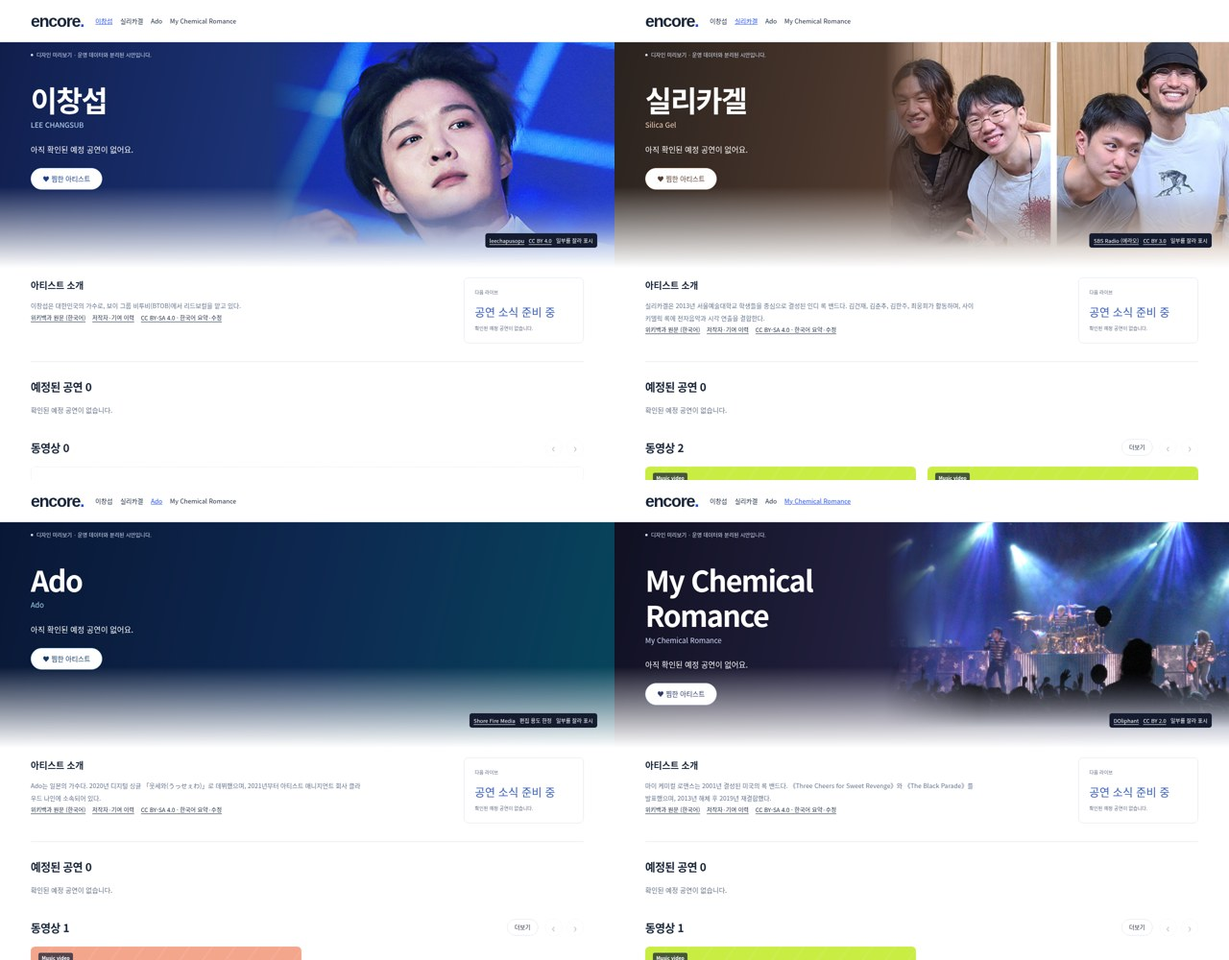
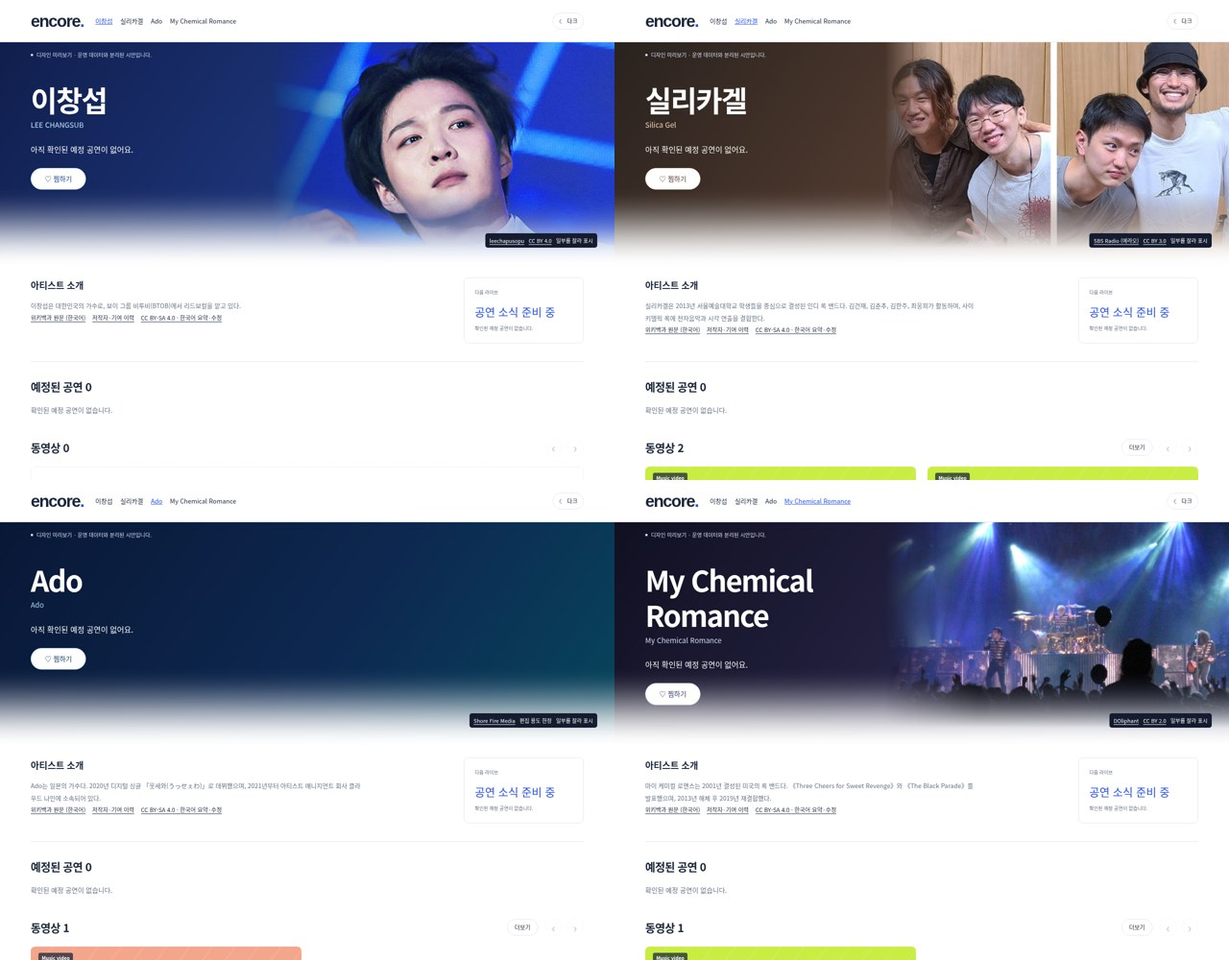
feat: smooth artist header fades and add preview dark mode
Blend the palette into the shared page surface with eased opacity stops over 240px on mobile. Remove default page gutters, keep photo-first headers and let the preview follow system color preference with an accessible manual override retained across artist links. Dark previews end in black; the production App and operational state are unchanged.

Validation: build and lint passed; preview UI tests 5 passed including live system preference, manual override, link retention and listener cleanup. Actual Chromium verified four artists in light/dark at 1280/390/360/320 (32 screens), common heights, live images, credits, fallback, contained controls and zero production API requests. Banner/body edge RGB difference was 0; mobile adjacent ramp changes stayed <=3 light / <=2 dark. Updated portable screenshots and handoff. No deployment, scheduling or saved credential change.

diff --git a/src/ArtistProfilePilot.css b/src/ArtistProfilePilot.css
@@ -1,8 +1,30 @@
 /* Isolated preview entry only; styles selected from approved d7304dd7. */
-:root { color-scheme: light; background: white; }
-body { min-width: 0; --ink: #19263b; --muted: #637084; --accent: #244fe8; --line: #dfe5ed; --surface: #fff; color: var(--ink); background: white; font: 14px/1.65 "Noto Sans KR", sans-serif; }
+:root {
+  color-scheme: light;
+  --artist-page-bg: #fff;
+  --ink: #19263b;
+  --muted: #637084;
+  --accent: #244fe8;
+  --line: #dfe5ed;
+  --surface: #fff;
+  background: var(--artist-page-bg);
+}
+:root:has(.artist-screen[data-preview-theme="dark"]) {
+  color-scheme: dark;
+  --artist-page-bg: #000;
+  --ink: #edf2fc;
+  --muted: #aebbd0;
+  --accent: #9ebfff;
+  --line: #293246;
+  --surface: #101522;
+}
+*, *::before, *::after { box-sizing: border-box; }
+h1, h2, h3, p { margin: 0; }
+button { cursor: pointer; color: inherit; border: 0; background: none; }
+button:focus-visible, a:focus-visible { outline: 2px solid var(--accent); outline-offset: 3px; }
+body { margin: 0; min-width: 0; color: var(--ink); background: var(--artist-page-bg); font: 14px/1.65 "Noto Sans KR", sans-serif; }
 button, a { font: inherit; } a { color: inherit; text-decoration: none; }
-.site-header { min-height: 88px; display: flex; align-items: center; flex-wrap: wrap; gap: 24px; padding: 16px 5%; border-bottom: 1px solid var(--line); background: white; }
+.site-header { min-height: 88px; display: flex; align-items: center; flex-wrap: wrap; gap: 24px; padding: 16px 5%; border-bottom: 1px solid var(--line); background: var(--artist-page-bg); }
 .brand { font: 900 35px/1 Arial,sans-serif; letter-spacing: -2px; } .brand span { color: var(--accent); }
 .site-header nav { display: flex; flex-wrap: wrap; gap: 16px; font-size: 13px; } .site-header a[aria-current] { color: var(--accent); text-decoration: underline; }
 .notice { display: flex; gap: 7px; align-items: center; font-size: 11px; color: var(--muted); padding: 18px 0; } .notice-dot { width: 5px; height: 5px; border-radius: 50%; background: var(--muted); flex-shrink: 0; }
@@ -30,13 +52,13 @@ footer { padding: 40px 0; color: var(--muted); } .artist-concerts p { color: var
 .artist-banner-art > i { position: absolute; width: 420px; height: 420px; border: 65px solid #ffffff14; border-radius: 50%; right: -70px; top: -120px; }
 .artist-about { display: grid; grid-template-columns: minmax(0,1fr) 250px; gap: 55px; padding: 35px 0 38px; border-bottom: 1px solid var(--line); margin-bottom: 35px; }
 .artist-about h2 { font-size: 19px; margin-bottom: 15px; }
-.artist-about p { font-size: 13px; line-height: 1.95; color: #64738e; max-width: 690px; }
+.artist-about p { font-size: 13px; line-height: 1.95; color: var(--muted); max-width: 690px; }
 .artist-about details { margin-top: 10px; }
 .artist-about summary { width: max-content; cursor: pointer; color: var(--accent); font-size: 11px; padding: 5px 0; }
 .artist-about details p { margin-top: 10px; }
 .artist-profile-note { padding: 22px; border: 1px solid var(--line); border-radius: 10px; height: max-content; }
 .artist-profile-note > span { display: block; color: var(--muted); font-size: 10px; }
-.artist-profile-note > strong { display: block; font: 23px Arial,sans-serif; margin: 14px 0 10px; color: #355db8; }
+.artist-profile-note > strong { display: block; font: 23px Arial,sans-serif; margin: 14px 0 10px; color: var(--accent); }
 .artist-concerts { margin-bottom: 48px; }
 .combined .artist-concerts .cards { grid-template-columns: repeat(3,minmax(0,1fr)); }
 .artist-media { margin-bottom: 42px; }
@@ -90,7 +112,7 @@ footer { padding: 40px 0; color: var(--muted); } .artist-concerts p { color: var
 .thumbnail-fallback[hidden] { display: none; }
 .artist-bio { display: -webkit-box; -webkit-box-orient: vertical; -webkit-line-clamp: 2; overflow: hidden; }
 .artist-bio.expanded { display: block; overflow: visible; }
-.artist-screen { --artist-page-bg: #fff; background: var(--artist-page-bg); }
+.artist-screen { min-height: 100svh; color: var(--ink); background: var(--artist-page-bg); }
 .artist-flow-page { width: 100%; max-width: none; padding-top: 0; position: relative; }
 .artist-flow-page > section:not(.artist-banner), .artist-flow-page > footer { width: 90%; max-width: 1250px; margin-left: auto; margin-right: auto; }
 .artist-screen .artist-banner { --artist-banner-color: #253b86; border-radius: 0; min-height: 470px; padding: 0 0 100px; background: linear-gradient(180deg,var(--artist-banner-color) 0%,var(--artist-banner-color) 48%,var(--artist-page-bg) 100%); }
@@ -172,10 +194,41 @@ footer { padding: 40px 0; color: var(--muted); } .artist-concerts p { color: var
 .artist-banner-photo figcaption a, .artist-bio-source { text-decoration: underline; text-underline-offset: 3px; }
 .artist-bio-source { display: inline-block; margin: 0 14px 6px 0; color: var(--ink); font-size: 12px; }
 .artist-screen .artist-banner[data-theme] {
-  background:
-    linear-gradient(to top, var(--artist-page-bg), transparent 36%),
-    linear-gradient(103deg, var(--banner-shadow), var(--banner-mid) 50%, var(--banner-edge));
+  --banner-fade-height: 170px;
+  background: var(--artist-page-bg);
 }
+/* Fade the palette itself into the same surface as the following section.
+   Cosine opacity stops keep both ends flat, avoiding a visible start/end band. */
+.artist-banner[data-theme]::before {
+  content: '';
+  position: absolute;
+  inset: 0;
+  pointer-events: none;
+  background: linear-gradient(125deg, var(--banner-shadow), var(--banner-mid) 55%, var(--banner-edge));
+  mask-image: linear-gradient(to bottom,
+    #000 calc(100% - var(--banner-fade-height)),
+    rgb(0 0 0 / 0.9938) calc(100% - var(--banner-fade-height) * 0.95),
+    rgb(0 0 0 / 0.9755) calc(100% - var(--banner-fade-height) * 0.90),
+    rgb(0 0 0 / 0.9455) calc(100% - var(--banner-fade-height) * 0.85),
+    rgb(0 0 0 / 0.9045) calc(100% - var(--banner-fade-height) * 0.80),
+    rgb(0 0 0 / 0.8536) calc(100% - var(--banner-fade-height) * 0.75),
+    rgb(0 0 0 / 0.7939) calc(100% - var(--banner-fade-height) * 0.70),
+    rgb(0 0 0 / 0.7270) calc(100% - var(--banner-fade-height) * 0.65),
+    rgb(0 0 0 / 0.6545) calc(100% - var(--banner-fade-height) * 0.60),
+    rgb(0 0 0 / 0.5782) calc(100% - var(--banner-fade-height) * 0.55),
+    rgb(0 0 0 / 0.5000) calc(100% - var(--banner-fade-height) * 0.50),
+    rgb(0 0 0 / 0.4218) calc(100% - var(--banner-fade-height) * 0.45),
+    rgb(0 0 0 / 0.3455) calc(100% - var(--banner-fade-height) * 0.40),
+    rgb(0 0 0 / 0.2730) calc(100% - var(--banner-fade-height) * 0.35),
+    rgb(0 0 0 / 0.2061) calc(100% - var(--banner-fade-height) * 0.30),
+    rgb(0 0 0 / 0.1464) calc(100% - var(--banner-fade-height) * 0.25),
+    rgb(0 0 0 / 0.0955) calc(100% - var(--banner-fade-height) * 0.20),
+    rgb(0 0 0 / 0.0545) calc(100% - var(--banner-fade-height) * 0.15),
+    rgb(0 0 0 / 0.0245) calc(100% - var(--banner-fade-height) * 0.10),
+    rgb(0 0 0 / 0.0062) calc(100% - var(--banner-fade-height) * 0.05),
+    transparent 100%);
+}
+
 .artist-banner[data-theme="cobalt"] {
   --banner-shadow: #101e4c;
   --banner-mid: #1d367d;
@@ -254,8 +307,8 @@ footer { padding: 40px 0; color: var(--muted); } .artist-concerts p { color: var
 .artist-banner-copy h1 { transform: none; }
 @media (max-width:760px) {
  .artist-screen .artist-banner:has(.artist-banner-photo) { height: auto; }
- .artist-screen .artist-banner[data-theme] { background: linear-gradient(to top, var(--artist-page-bg), transparent 110px), linear-gradient(125deg, var(--banner-shadow), var(--banner-mid) 55%, var(--banner-edge)); }
- .artist-screen .artist-banner h1 { margin: 0 0 6px; min-height: 2.44em; font-size: 32px; }
+ .artist-screen .artist-banner[data-theme] { --banner-fade-height: 240px; }
+ .artist-screen .artist-banner h1 { margin: 0 0 6px; min-height: 0; font-size: 32px; }
  .artist-screen .artist-banner[data-theme] .artist-banner-copy > p { color: var(--banner-accent); }
  .artist-screen .artist-banner-copy > strong { max-width: none; margin: 12px 0; }
  .artist-banner-photo figcaption { bottom: 8px; }
@@ -264,3 +317,11 @@ footer { padding: 40px 0; color: var(--muted); } .artist-concerts p { color: var
 
 @media (min-width:761px) { .artist-screen .artist-banner { height: 470px; padding-bottom: 0; } }
 .artist-banner h1 { line-height: 1.22; font-weight: 800; }
+
+.preview-theme-control { margin-left: auto; flex-shrink: 0; display: inline-flex; align-items: center; gap: 6px; min-height: 34px; padding: 4px 12px; border: 1px solid var(--line); border-radius: 20px; background: var(--surface); color: var(--ink); font-size: 12px; }
+.preview-theme-control[aria-pressed="true"] { border-color: var(--accent); color: var(--accent); }
+.preview-theme-control:focus-visible { outline: 2px solid var(--accent); outline-offset: 3px; }
+@media (max-width:760px) {
+  .site-header nav { order: 3; flex-basis: 100%; }
+  .artist-screen .artist-banner[data-theme] .follow-control { border-color: var(--banner-ink); }
+}

diff --git a/src/ArtistProfilePilot.tsx b/src/ArtistProfilePilot.tsx
@@ -1,4 +1,4 @@
-import { useState } from 'react'
+import { useEffect, useState } from 'react'
 import type { Band } from './data'
 import { ArtistBannerPhoto } from './ArtistBannerPhoto'
 import { ArtistProfileMedia } from './ArtistProfileMedia'
@@ -12,13 +12,30 @@ const artists: Band[] = [
   { id: 'mcr', name: 'My Chemical Romance', initials: 'MCR', color: '#252343', country: '미국', genre: '록', musicbrainzId: 'c07f0676-9143-4217-8a9f-4c26bd636f13' },
 ]
 
+type PreviewTheme = 'light' | 'dark'
+
 export default function ArtistProfilePilot() {
   const slug = new URLSearchParams(location.search).get('artistProfilePreview')
   const band = artists.find(artist => artist.id === slug) ?? artists[0]
   const profile = artistProfilePreviews[band.id]!
   const [followed, setFollowed] = useState(false)
-  return <div className="combined artist-screen">
-    <header className="site-header"><a className="brand" href="/">encore<span>.</span></a><nav aria-label="아티스트 시안">{artists.map(artist => <a key={artist.id} href={`?artistProfilePreview=${artist.id}`} aria-current={band.id === artist.id ? 'page' : undefined}>{artist.name}</a>)}</nav></header>
+  const [themeOverride, setThemeOverride] = useState<PreviewTheme | null>(() => {
+    const requested = new URLSearchParams(location.search).get('previewTheme')
+    return requested === 'light' || requested === 'dark' ? requested : null
+  })
+  const [systemDark, setSystemDark] = useState(() => window.matchMedia?.('(prefers-color-scheme: dark)').matches ?? false)
+  useEffect(() => {
+    const preference = window.matchMedia?.('(prefers-color-scheme: dark)')
+    if (!preference) return
+    const changed = (event: MediaQueryListEvent) => setSystemDark(event.matches)
+    preference.addEventListener('change', changed)
+    return () => preference.removeEventListener('change', changed)
+  }, [])
+  const theme = themeOverride ?? (systemDark ? 'dark' : 'light')
+  const artistUrl = (id: string) => `?artistProfilePreview=${id}${themeOverride ? `&previewTheme=${themeOverride}` : ''}`
+
+  return <div className="combined artist-screen" data-preview-theme={theme}>
+    <header className="site-header"><a className="brand" href="/">encore<span>.</span></a><nav aria-label="아티스트 시안">{artists.map(artist => <a key={artist.id} href={artistUrl(artist.id)} aria-current={band.id === artist.id ? 'page' : undefined}>{artist.name}</a>)}</nav><button className="preview-theme-control" type="button" aria-label="다크 모드" aria-pressed={theme === 'dark'} onClick={() => setThemeOverride(theme === 'dark' ? 'light' : 'dark')}><span aria-hidden="true">☾</span> 다크</button></header>
     <main className="artist-flow-page">
       <section className="artist-banner" data-theme={profile.theme}>
         <div className="notice"><span className="notice-dot" />디자인 미리보기 · 운영 데이터와 분리된 시안입니다.</div>
@@ -28,7 +45,7 @@ export default function ArtistProfilePilot() {
       <section className="artist-about"><div><h2>아티스트 소개</h2><p className="artist-bio expanded">{profile.bio}</p><a className="artist-bio-source" href={profile.wikipedia} target="_blank" rel="noopener noreferrer">위키백과 원문 ({profile.language})</a><a className="artist-bio-source" href={`${profile.wikipedia}?action=history`} target="_blank" rel="noopener noreferrer">저작자·기여 이력</a><a className="artist-bio-source" href="https://creativecommons.org/licenses/by-sa/4.0/" target="_blank" rel="noopener noreferrer">CC BY-SA 4.0 · 한국어 요약·수정</a></div><div className="artist-profile-note"><span>다음 라이브</span><strong>공연 소식 준비 중</strong><span>확인된 예정 공연이 없습니다.</span></div></section>
       <section className="artist-concerts"><div className="section-heading"><h2>예정된 공연 <span>0</span></h2></div><p>확인된 예정 공연이 없습니다.</p></section>
       <ArtistProfileMedia key={band.id} band={band} profile={profile} />
-      <section className="related-artists"><div className="section-heading"><h2>함께 발견할 아티스트</h2></div><nav className="related-artist-list">{artists.filter(artist => artist.id !== band.id).map(artist => <a key={artist.id} href={`?artistProfilePreview=${artist.id}`}>{artist.name}</a>)}</nav></section>
+      <section className="related-artists"><div className="section-heading"><h2>함께 발견할 아티스트</h2></div><nav className="related-artist-list">{artists.filter(artist => artist.id !== band.id).map(artist => <a key={artist.id} href={artistUrl(artist.id)}>{artist.name}</a>)}</nav></section>
       <footer><span className="brand">encore.</span><p>다음 라이브에서 만나요.</p></footer>
     </main>
   </div>

diff --git a/tests/artist-profile-preview.test.tsx b/tests/artist-profile-preview.test.tsx
@@ -1,5 +1,5 @@
 // @vitest-environment jsdom
-import { cleanup, fireEvent, render, screen } from '@testing-library/react'
+import { act, cleanup, fireEvent, render, screen } from '@testing-library/react'
 import { afterEach, expect, test, vi } from 'vitest'
 import ArtistProfilePilot from '../src/ArtistProfilePilot'
 import { ArtistBannerPhoto } from '../src/ArtistBannerPhoto'
@@ -8,6 +8,33 @@ import { artistProfilePreviews } from '../src/artistProfilePreview'
 import type { Band } from '../src/data'
 
 afterEach(() => { cleanup(); vi.unstubAllGlobals(); history.replaceState(null, '', '/') })
+
+test('theme follows the system until explicitly changed, and artist links retain the choice', () => {
+  const listeners = new Set<(event: { matches: boolean }) => void>()
+  vi.stubGlobal('matchMedia', () => ({ matches: true,
+    addEventListener: (_: string, listener: (event: { matches: boolean }) => void) => listeners.add(listener),
+    removeEventListener: (_: string, listener: (event: { matches: boolean }) => void) => listeners.delete(listener),
+  }))
+  const { container } = render(<ArtistProfilePilot />)
+  const mode = () => container.querySelector('.artist-screen')?.getAttribute('data-preview-theme')
+  expect(mode()).toBe('dark')
+  act(() => listeners.forEach(listener => listener({ matches: false })))
+  expect(mode()).toBe('light')
+  fireEvent.click(screen.getByRole('button', { name: '다크 모드' }))
+  expect(mode()).toBe('dark')
+  act(() => listeners.forEach(listener => listener({ matches: false })))
+  expect(mode()).toBe('dark')
+  expect(screen.getAllByRole('link', { name: 'Ado' }).every(link => link.getAttribute('href')?.includes('previewTheme=dark'))).toBe(true)
+  cleanup()
+  expect(listeners.size).toBe(0)
+})
+
+test('an explicit light preview overrides a dark system preference', () => {
+  history.replaceState(null, '', '/?artistProfilePreview=ado&previewTheme=light')
+  vi.stubGlobal('matchMedia', () => ({ matches: true, addEventListener: vi.fn(), removeEventListener: vi.fn() }))
+  const { container } = render(<ArtistProfilePilot />)
+  expect(container.querySelector('.artist-screen')?.getAttribute('data-preview-theme')).toBe('light')
+})
 
 test('Ado editorial preview keeps approved colors, image-use notice and Korean attribution without production APIs', () => {
   history.replaceState(null, '', '/?artistProfilePreview=ado')

diff --git a/docs/release/artist-profile-cloud-handoff.md b/docs/release/artist-profile-cloud-handoff.md
@@ -2,6 +2,12 @@
 
 2026-11-19 KST. 사용자는 재사용 환경의 공개 키를 교체하고 새 채팅에서 이어가기로 했다. 이 문서와 원격 feature branch를 사용하며 다른 채팅의 Windows 경로·`.local` 파일·임시 프로세스·스크립트를 사용할 수 있다고 가정하지 않는다.
 
+## 후속 상태 변경 · 디자인은 현재 채팅에서 계속 진행
+
+사용자가 새 채팅 대신 현재 채팅에서 디자인을 계속하기로 했다. 기존 110px 선형 페이드를 240px의 완만한 opacity 곡선으로 바꾸고 같은 배경 변수로 본문에 연결했다. 시안의 시스템 테마 감지·실시간 변경과 상단 수동 전환, 검정 배경으로 이어지는 다크 모드도 구현했다. 아래 목록에 마지막 요청과 후속 구현을 정리했으며 현재 구현/캡처는 `docs/artist-profile-preparation.md`의 최상단 후속 결과를 우선한다. 사용자 최종 시각 검토는 아직 남아 있다. 운영 App 전체의 테마 변경·배포는 아니다.
+
+후속 검증: build·lint, 시안 UI 5개, 네 팀의 라이트/다크·1280/390/360/320px 실제 화면 32개 통과. 경계의 RGB 차이 0, 넘침 없음, 이미지·출처·버튼·모드 전환·실패 대체·운영 API 요청 0 확인. Git의 `docs/artist-profile-preview/theme-comparison.jpg`와 두 모드 overview가 최신 캡처다. 이전 채팅의 임시 키·로컬 파일 전달은 여전히 가정하지 않는다.
+
 ## 이어받을 코드
 
 저장소: https://github.com/yeonguk0201/Concert_finder
@@ -21,14 +27,14 @@ git fetch origin refs/heads/dev:refs/remotes/origin/dev refs/heads/codex/feat-ar
 
 먼저 읽기: `AGENTS.md`, `CONTRIBUTING.md`, `docs/artist-photos.md`, `docs/api-first-concert-publication-plan.md`, `docs/release/local-ui-and-concert-dedup-handoff.md`, 이 문서와 `docs/artist-profile-preparation.md`.
 
-## 사용자의 다음 요청 — 아직 미해결
+## 마지막 디자인 요청과 현재 구현 — 시각 검토 대기
 
 1. 모바일 배치는 사진 → 이름 → 예정 공연 → 찜 버튼이다. 사진과 이름/버튼 뒤까지 해당 아티스트의 퍼스널 컬러를 유지한다.
-2. 마지막 110px의 단순한 색→흰색 변화가 급하고, 흰 본문과 만나는 경계도 끊겨 보인다는 피드백이 남았다. 참고 화면처럼 더 긴 구간에서 부드럽게 흩어지는 그라데이션으로 수정한다. 버튼 아래만 하얀 띠를 붙이거나 이미지/본문 사이에 경계선을 만들지 않는다.
-3. 다크 모드에서는 본문과 그라데이션 종착색이 검정/실제 다크 배경이어야 한다. 현재는 `:root { color-scheme: light }`, 흰 page background 등으로 라이트 고정이다. 다크 모드가 이미 구현됐다고 말하지 않는다. 기존 앱의 테마 계약을 조사한 뒤 시안에 연결하며, 연결할 계약이 없다면 그 사실을 확인하고 적절한 시스템 테마 대응을 구현한다.
-4. 네 팀, 라이트/다크, 320·390·1280px에서 공통 이미지/배너 높이·넘침·출처·대비·이미지 실패 대체를 실제 화면으로 확인한다. 필요하면 360px도 확인한다. 제공된 참고 이미지를 다시 받을 수 없다면 저장된 현재 캡처와 위 구체적 피드백을 기준으로 진행한다.
+2. 기존 마지막 110px의 단순한 색→흰색 변화가 급하고 경계가 끊겨 보인다는 피드백에 따라, 모바일은 240px의 완만한 opacity 곡선으로 수정했다. 배너와 본문이 같은 테마 배경으로 이어지며 실제 경계 픽셀 차이는 0이었다. 최종 느낌은 사용자 검토를 기다린다.
+3. 시안의 시스템 테마 대응과 상단 수동 다크 버튼을 구현했다. 운영 App에는 연결할 테마 상태 계약이 없어 시안에서 시스템 설정을 기본으로 따른다. 다크에서는 본문·헤더·그라데이션 종착점이 검정이다. 운영 앱 전체에 다크 모드를 추가했다고 말하지 않는다.
+4. 네 팀, 라이트/다크, 320·360·390·1280px의 실제 화면 32개를 확인했다. 공통 이미지/배너 높이·넘침·출처·대비·이미지 실패 대체·테마 전환 검사와 UI 검사 5개가 통과했다. 다음 수정은 현재 캡처에 대한 사용자 피드백을 기준으로 이어간다.
 
-새 채팅 시작 전에 그라데이션·다크 기능을 추가하지 않았다. 기존 화면 재현에 대한 ‘나쁘지 않다’는 반응을 최종 디자인 승인이나 운영 게시 승인으로 해석하지 않는다.
+이 기능은 사용자가 현재 채팅에서 디자인을 계속하기로 한 뒤 개발용 시안에 구현했다. 기존 화면 재현에 대한 ‘나쁘지 않다’는 반응이나 구현 완료를 최종 디자인 승인·운영 게시 승인으로 해석하지 않는다.
 
 ## 파일과 진입점
 

diff --git a/docs/artist-profile-preparation.md b/docs/artist-profile-preparation.md
@@ -2,13 +2,25 @@
 
 2026-11-18 KST. 이 문서는 첫 화면 검토용 결과다. 반복 주기·자동 등록 범위는 정하지 않았으며 예약·배포·운영 콘텐츠 반영은 하지 않았다.
 
+## 2026-11-19 KST · 그라데이션·다크 후속 구현
+
+사용자가 새 채팅 대신 현재 채팅에서 디자인을 계속하기로 했다. 모바일의 색상 전환 구간을 110px에서 240px로 늘리고, 양 끝의 변화율이 0에 가까운 코사인 곡선을 21개 opacity stop으로 근사해 퍼스널 컬러 자체를 페이드한다. 배너와 다음 본문은 같은 `--artist-page-bg`를 사용한다. 기본 8px body 여백과 시안의 기본 스타일 의존도도 제거했다. 사진 → 이름·예정 공연·찜 순서와 팔레트/출처는 유지한다.
+
+시안의 다크 모드를 구현했다. 기본은 기기의 `prefers-color-scheme`이며 상단 `다크` 버튼으로 수동 전환할 수 있다. 수동 선택은 아티스트 이동 링크의 `previewTheme`로 이어지고, 강제 선택이 없으면 실행 중 시스템 변경도 따른다. 라이트의 그라데이션 종착점은 흰색, 다크는 검정이다. 페이지 배경·본문·헤더·테두리·링크에도 같은 테마 변수를 사용한다. **운영 App 전체의 다크 모드를 추가하거나 배포한 것은 아니다.**
+
+검증: build·lint, 테마 기본/수동 선택/시스템 변경/정리와 기존 시안 UI 검사 5개 통과. 네 팀 × 라이트/다크 × 1280/390/360/320px = 실제 Chromium 32개 화면에서 이미지 로드·공통 높이·넘침 없음·출처·버튼·운영 API 요청 0을 확인했다. 양 모드의 이미지 실패 이니셜 대체와 테마 버튼 왕복도 확인했다. 배너/본문 경계의 인접 픽셀 RGB 차이는 0이었다. 모바일 마지막 220px에서 한 픽셀의 최대 채널 변화는 라이트 3/다크 2(0~255), 구별되는 색상은 최소 라이트 187/다크 132개였다. 이 수치는 육안 검토를 대신하는 최종 디자인 승인은 아니다.
+
+![라이트·다크 비교](artist-profile-preview/theme-comparison.jpg)
+
+[네 팀 라이트](artist-profile-preview/mobile-light-overview.jpg) · [네 팀 다크](artist-profile-preview/mobile-dark-overview.jpg). 원본 32개 PNG와 관측 JSON은 현재 환경 `.local/artist-profile/gradient-light`, `gradient-dark`, `gradient-theme-browser-results.json`에 있다. 키/운영 콘텐츠/SQL/함수/예약은 변경하지 않았다.
+
 ## 2026-11-19 KST · 새 채팅 인계 전 기준 브랜치 정정
 
 초기 원격 dev 해시를 확인했으나 로컬 `origin/dev`는 `f9319139858de8029dd8028df6ea45dd334a5625`에 머물러 있었다. fetch 설정이 main만 추적하고 있어 이름만으로 최신이라고 판단한 것이 오류였다. 앞선 “최신 dev 기반” 설명과 초기 전체 검사 수치는 그 점을 감안해야 한다.
 
 인계 전에 `git fetch origin refs/heads/dev:refs/remotes/origin/dev`로 실제 `ea6ab3d15bb573d2ccfadd0320170e3a7f2d256f`를 받은 뒤 그 커밋에서 같은 이름의 작업 브랜치를 다시 구성했다. 초기 커밋들은 로컬 보관 브랜치에 남기고, 원격에 공유할 브랜치는 실제 최신 dev의 후손이다. 최신 dev의 `src/ArtistMedia.tsx`, `src/ServiceDesign.css`, workflow, SQL은 변경하지 않았다. 시안 미디어와 CSS는 각각 `src/ArtistProfileMedia.tsx`, `src/ArtistProfilePilot.css`로 분리했다. 앞으로 시안 스타일은 이 CSS에서 수정한다.
 
-현재 light 고정 상태이며 다크 모드 검정 전환은 **미구현**이다. 마지막 사용자 요청인 “색→흰색 변화가 급하고 본문 경계가 끊겨 보임”도 아직 미해결이다. [새 채팅 인계 문서](release/artist-profile-cloud-handoff.md)를 우선 읽는다. 이전 캡처는 수정 전 상태를 재현하는 참고 자료다.
+인계 시점에는 라이트 고정과 그라데이션 문제가 남아 있었지만, 이후 현재 채팅에서 위와 같이 후속 구현했다. [새 채팅 인계 문서](release/artist-profile-cloud-handoff.md)를 우선 읽는다. 이전 커밋의 캡처는 당시 상태이며 현재 Git에 포함된 overview는 위 후속 구현을 반영한 화면이다.
 
 ## 2026-11-19 KST · 모바일 퍼스널 컬러 연결
 
